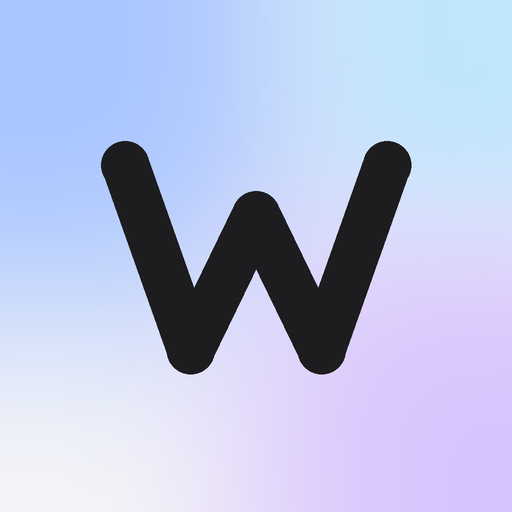
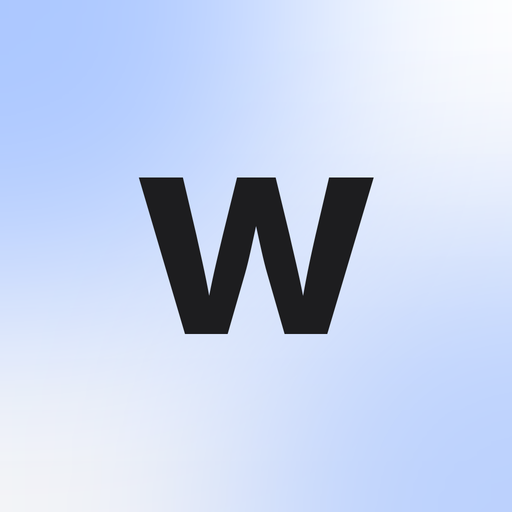
Icono estilo Apple: w en Inter Bold y manchas solo en el azul por defecto
Claude-Session: https://claude.ai/code/session_01SmFUBwas2yWcbY2UUnLZf8

Changed region(s): [[0.1875, 0.0, 1.0, 0.75], [0.75, 0.75, 1.0, 1.0], [0.4375, 0.3438, 0.5625, 0.4375]]

diff --git a/static/sw.js b/static/sw.js
@@ -2,7 +2,7 @@
    A propósito NO guarda páginas ni CSS/JS en caché: así cada cambio que subas
    (git pull + Reload) aparece al momento en la app, sin versiones viejas.
    Solo guarda la página "Sin conexión" para enseñarla si no hay internet. */
-const CACHE = "weblife-v2";   // súbelo si cambias los iconos
+const CACHE = "weblife-v3";   // súbelo si cambias los iconos
 const SIN_CONEXION = "/static/sin-conexion.html";
 
 self.addEventListener("install", function (e) {

diff --git a/herramientas/crear_iconos.py b/herramientas/crear_iconos.py
@@ -2,15 +2,19 @@
 Uso: python3 herramientas/crear_iconos.py  (necesita Pillow: pip3 install --user pillow)
 
 Hay tres diseños; cambia DISENO y vuelve a ejecutarlo:
-  "A": fondo claro con las manchas de color de la web y una "w" de trazo redondeado.
+  "A": estilo Apple: fondo claro con manchas del azul de la web y una "w" en Inter Bold
+       (la misma letra que el logo de la web).
   "B": tarjeta de cristal sobre un degradado pastel.
   "C": fondo oscuro con la "w" en degradado pastel y un punto.
 """
 import os
-from PIL import Image, ImageDraw, ImageFilter
+from PIL import Image, ImageDraw, ImageFilter, ImageFont
 
 DISENO = "A"
 CARPETA = os.path.join(os.path.dirname(__file__), "..", "static", "iconos")
+
+# Inter, la letra de la web. Si no está en tu ordenador, descárgala de Google Fonts y pon aquí la ruta.
+FUENTE_INTER = "/usr/share/fonts/opentype/inter/Inter-Bold.otf"
 
 S = 1024   # dibujamos grande y luego reducimos, para que los bordes queden suaves
 FONDO = (245, 245, 247)     # #F5F5F7, el fondo de la web
@@ -42,8 +46,29 @@ def w_trazo(d, color, grosor, y0=330, y1=700, x0=250, x1=774, ymedio=430):
 
 
 def diseno_a():
-    img = manchas(FONDO, [(220, 230, 420, AZUL, 1), (860, 820, 380, LILA, 0.8), (900, 150, 260, CELESTE, 0.7)])
-    w_trazo(ImageDraw.Draw(img), TEXTO, 96)
+    # Fondo casi blanco que baja suave al gris de la web, como los iconos de Apple
+    img = Image.new("RGB", (S, S))
+    d = ImageDraw.Draw(img)
+    for y in range(S):
+        t = y / S
+        d.line((0, y, S, y), fill=tuple(int(255 + (f - 255) * t) for f in FONDO))
+    # Manchas de un solo color: el azul por defecto (#A8C5FF)
+    img = manchas_sobre(img, [(170, 180, 430, 0.95), (900, 880, 420, 0.75)], AZUL)
+    # La "w" en Inter Bold, con el mismo espaciado apretado que el logo
+    fuente = ImageFont.truetype(FUENTE_INTER, int(S * 0.56))
+    caja = d.textbbox((0, 0), "w", font=fuente)
+    x = (S - (caja[2] - caja[0])) / 2 - caja[0]
+    y = (S - (caja[3] - caja[1])) / 2 - caja[1]
+    ImageDraw.Draw(img).text((x, y), "w", font=fuente, fill=TEXTO)
+    return img
+
+
+def manchas_sobre(img, lista, color):
+    for cx, cy, r, fuerza in lista:
+        m = Image.new("L", (S, S), 0)
+        ImageDraw.Draw(m).ellipse((cx - r, cy - r, cx + r, cy + r), fill=int(255 * fuerza))
+        m = m.filter(ImageFilter.GaussianBlur(r * 0.5))
+        img = Image.composite(Image.new("RGB", (S, S), color), img, m)
     return img
 
 
